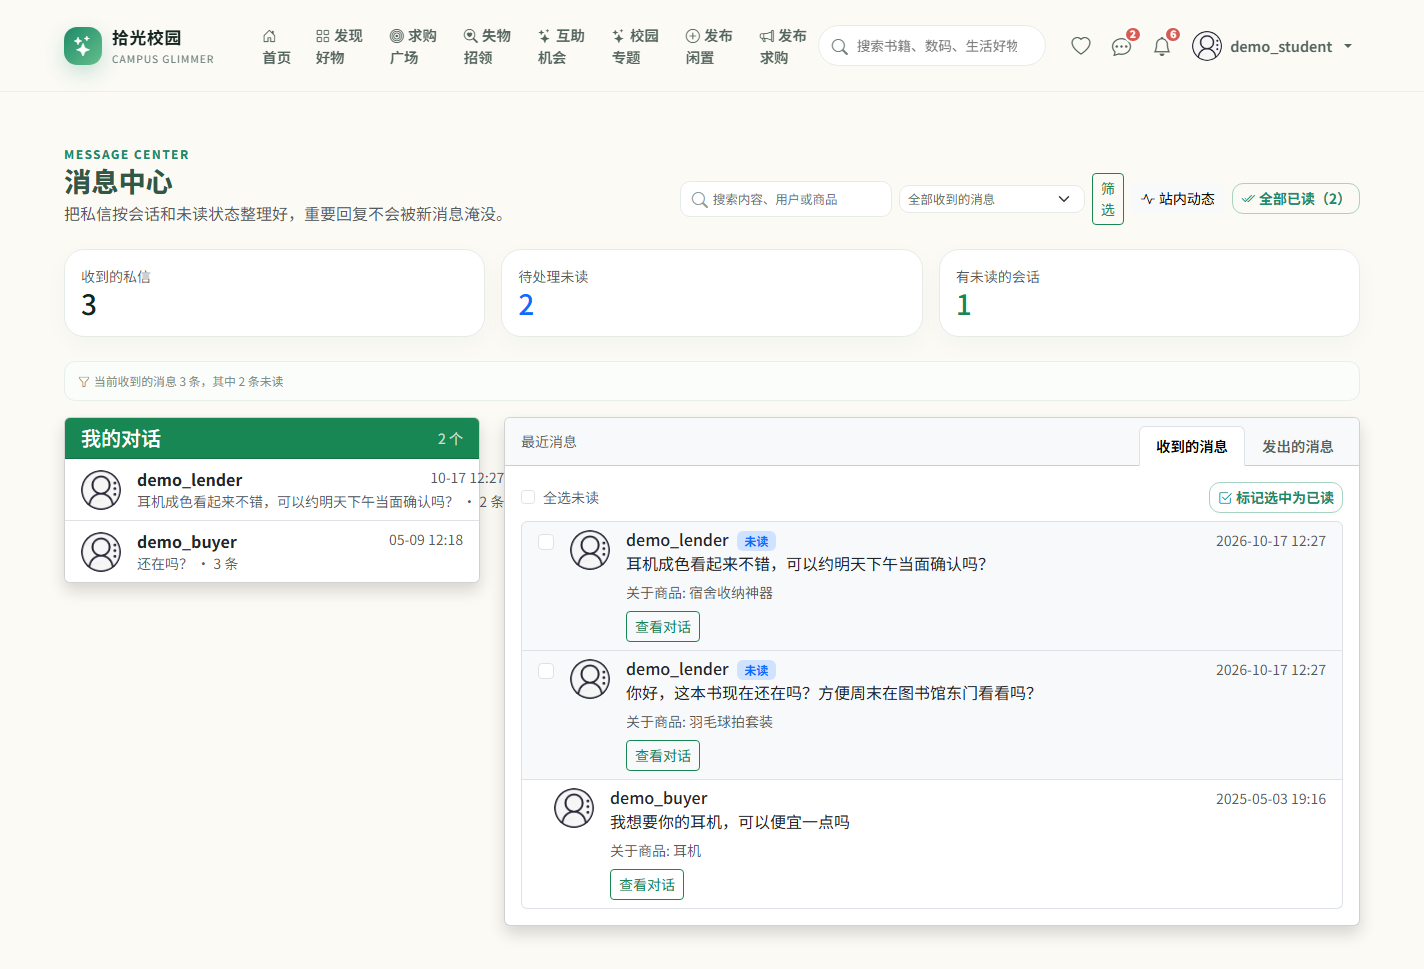
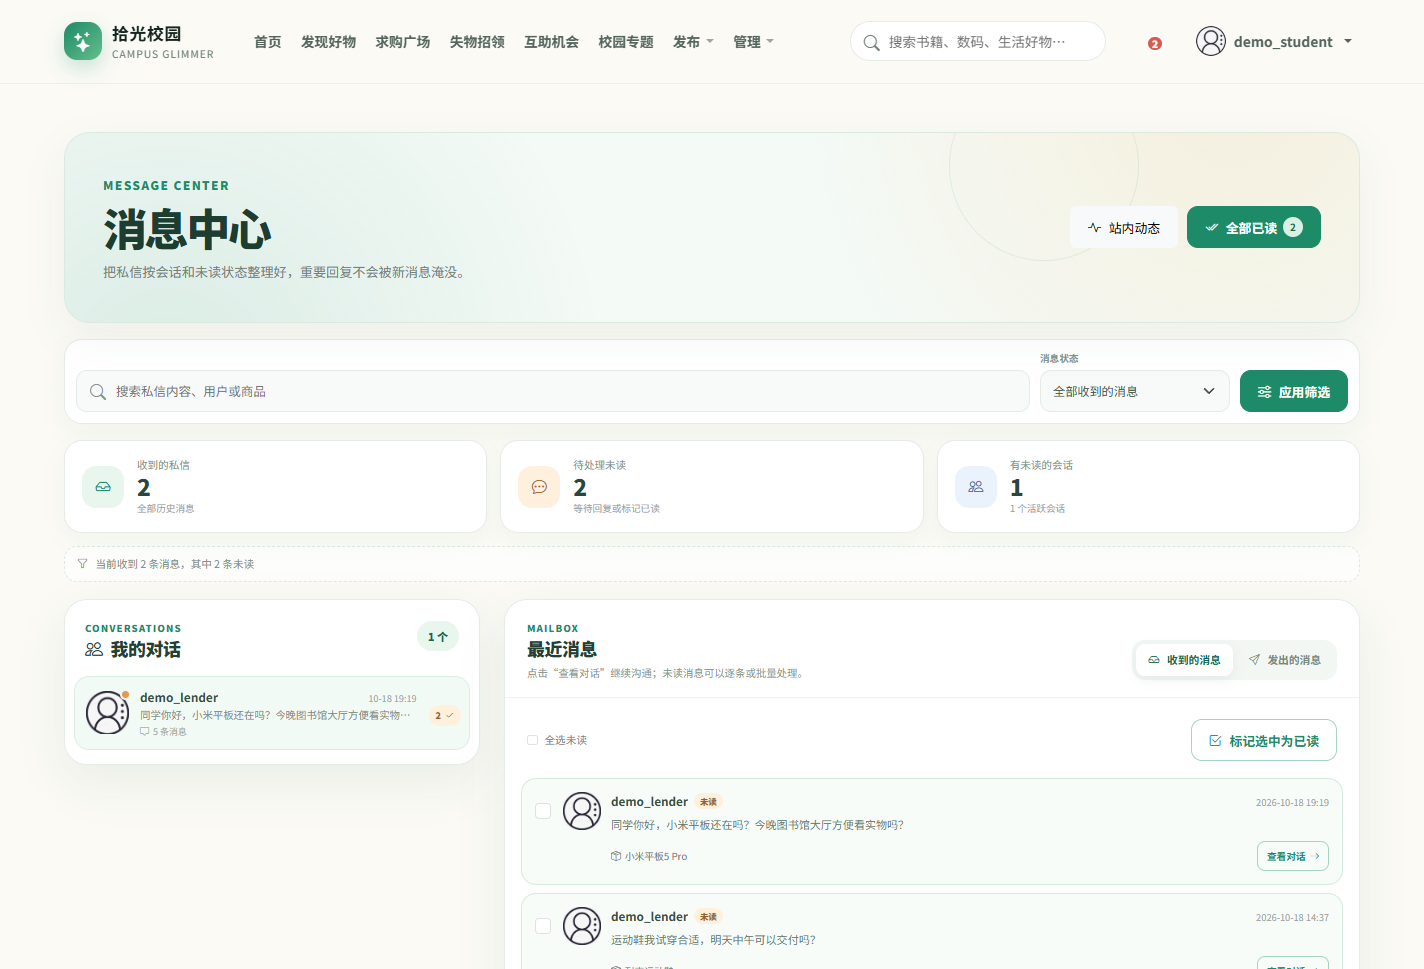
文档：重排 README 首屏并更新产品截图
根 README 首屏改为“主视觉 + 四宫格预览 + 运营看板”的结构，降低首屏阅读成本；
补充 mermaid 业务主线图与架构图入口，功能地图改名为“能力地图”。

各目录 README 同步“账户中心/消息工作台”新命名与截图说明；
替换账户中心与消息工作台两张真实截图（1424×969）。

diff --git a/README.md b/README.md
@@ -1,14 +1,14 @@
 <a id="top"></a>
 <div align="center">
 
-<img src="docs/assets/brand-mark.svg" width="92" alt="拾光校园品牌图标" />
+<img src="docs/assets/brand-mark.svg" width="94" alt="拾光校园品牌图标" />
 
 # 拾光校园 · Campus Glimmer
 
 **让闲置在校园里继续流转，也让每一次相遇都更有回应。**
 
-面向校园的二手交易与社区协作平台。从发现一件好物，到预约、交付、反馈与治理，
-把校园里经常被忽略的细节，接成一条可以回看的交易链路。
+面向校园的二手交易与互助协作平台。围绕发布、发现、沟通、预约、交付、
+评价和治理，把一次校园交易中容易被忽略的细节连接成可回看的完整链路。
 
 [![Django](https://img.shields.io/badge/Django-5.1%2B-1d8a68?style=flat-square&logo=django&logoColor=white)](https://www.djangoproject.com/)
 [![Python](https://img.shields.io/badge/Python-3.11%2B-3776ab?style=flat-square&logo=python&logoColor=white)](https://www.python.org/)
@@ -16,120 +16,102 @@
 [![Docker](https://img.shields.io/badge/Docker-Ready-2496ed?style=flat-square&logo=docker&logoColor=white)](docker-compose.yml)
 [![License](https://img.shields.io/badge/License-MIT-f6aa61?style=flat-square)](LICENSE)
 
-[产品预览](#preview) · [功能地图](#features) · [快速开始](#quick-start) · [工程与测试](#engineering) · [文档地图](#docs) · [完整手册](docs/README.md)
+[产品预览](#preview) · [能力地图](#features) · [快速开始](#quick-start) · [工程与测试](#engineering) · [文档地图](#docs) · [完整手册](docs/README.md)
 
 </div>
-
----
-
-<p align="center">
-  <img src="docs/screenshots/home.png" alt="拾光校园首页，展示校园闲置交易主视觉、导航与在售商品概览" width="100%" />
-</p>
-
-<p align="center"><sub>界面预览 · 本地演示数据</sub></p>
-
-## 🌿 关于项目
-
-校园二手交易和普通电商并不完全相同。用户活动范围集中，交易更依赖当面沟通和时间协调；
-商品生命周期会随开学、考试周和毕业季快速变化；平台除了撮合交易，还要处理通知、举报、
-内容治理和运营复盘。
-
-拾光校园从“发布一件闲置、找到一个买家”出发，持续补齐这些容易被忽略的环节：交易地点、
-预约是否有效、订单进行到哪一步、消息是否被看到、问题由谁处理，以及运营者如何理解站内
-真实需求。
-
-项目按真实业务链路长期迭代。一个功能通常会经过设计说明、数据模型、页面交互、权限边界、
-数据库迁移、后台运营和自动化测试，再进入主分支。README 负责快速了解与进入，完整规则
-维护在 [`docs/`](docs/)。
-
-> **当前状态：** 持续维护中。核心交易、消息通知、社区治理和运营看板已形成闭环；近期迭代
-> 重点放在界面一致性、移动端体验、搜索入口和生产环境可靠性。
-
-<table>
-<tr>
-<td width="50%" valign="top">
-
-<h3>🧭 发现</h3>
-
-按分类、价格、成色和校园地点筛选；收藏、关注搜索、价格轨迹与供需信号帮助用户找到合适的好物。
-
-</td>
-<td width="50%" valign="top">
-
-<h3>🤝 交易</h3>
-
-覆盖出售、免费赠送、限期借用、预约、改期、交付确认、评价、争议和借用归还。
-
-</td>
-</tr>
-<tr>
-<td width="50%" valign="top">
-
-<h3>💬 社区</h3>
-
-留言、私信、站内通知、未读提醒、通知偏好、举报回访与内容申诉连接起每一次互动。
-
-</td>
-<td width="50%" valign="top">
-
-<h3>📊 运营</h3>
-
-从搜索、浏览、收藏、预约和交付中形成可解释指标，支持需求跟进、运营告警和效果复盘。
-
-</td>
-</tr>
-</table>
 
 ---
 
 <a id="preview"></a>
 ## 📸 产品预览
 
-### 发现校园好物
-
 <p align="center">
-  <img src="docs/screenshots/discover.png" alt="商品发现页，包含关键词搜索、分类、校园地点筛选、商品卡片和排序" width="100%" />
+  <a href="docs/screenshots/home.png"><img src="docs/screenshots/home.png" alt="拾光校园首页，展示品牌主视觉、导航与在售商品概览" width="100%" /></a>
 </p>
 
-<p align="center"><sub>关键词、分类、交易地点与商品状态在同一个筛选入口内完成 · 本地演示数据</sub></p>
+<p align="center"><strong>首页 · 从校园场景进入交易与互助</strong><br /><sub>品牌主视觉、全局入口、未读提醒和正在流转的好物 · 本地演示数据</sub></p>
 
 <table>
 <tr>
 <td width="50%" valign="top">
-<img src="docs/screenshots/item-detail.png" alt="商品详情页，展示商品图片、价格、校园地点和价格参考" width="100%" />
-<p align="center"><strong>商品详情</strong><br /><sub>图片、地点、价格参考与交易操作</sub></p>
+<a href="docs/screenshots/discover.png"><img src="docs/screenshots/discover.png" alt="发现页，展示关键词、分类、校园地点、商品状态和排序筛选" width="100%" /></a>
+<p align="center"><strong>发现好物</strong><br /><sub>分类、价格、成色与校园地点组合筛选</sub></p>
 </td>
 <td width="50%" valign="top">
-<img src="docs/screenshots/notifications.png" alt="通知中心，展示未读统计、类型分布、筛选和批量延后操作" width="100%" />
-<p align="center"><strong>通知中心</strong><br /><sub>未读统计、类型分布、筛选与批量处理</sub></p>
+<a href="docs/screenshots/item-detail.png"><img src="docs/screenshots/item-detail.png" alt="商品详情页，展示商品图片、价格、校园地点和价格参考" width="100%" /></a>
+<p align="center"><strong>商品详情</strong><br /><sub>交易信息、地点、价格参考与操作入口</sub></p>
+</td>
+</tr>
+<tr>
+<td width="50%" valign="top">
+<a href="docs/screenshots/inbox.png"><img src="docs/screenshots/inbox.png" alt="消息工作台，展示未读统计、搜索筛选、会话列表和批量已读" width="100%" /></a>
+<p align="center"><strong>消息工作台</strong><br /><sub>会话整理、未读聚焦、收到与发出视图</sub></p>
+</td>
+<td width="50%" valign="top">
+<a href="docs/screenshots/profile.png"><img src="docs/screenshots/profile.png" alt="账户中心，展示校园认证、互助贡献、联系方式和个人活动入口" width="100%" /></a>
+<p align="center"><strong>账户中心</strong><br /><sub>校园身份、可信资料、贡献进度与活动入口</sub></p>
 </td>
 </tr>
 </table>
 
-### 账户与消息
+<p align="center">
+  <a href="docs/screenshots/operations.png"><img src="docs/screenshots/operations.png" alt="运营看板，展示供给、搜索、预约、互助和看板构建观测" width="100%" /></a>
+</p>
+
+<p align="center"><strong>运营看板 · 把校园交易现场变成可解释的运营信号</strong><br /><sub>供给、需求、搜索、交付、互助与告警共用同一套指标口径 · 本地演示数据</sub></p>
+
+<p align="center"><sub>全部截图来自当前本地页面与演示数据；登录、通知、公开档案等更多界面见 <a href="docs/screenshots/README.md">系统界面预览</a></sub></p>
+
+---
+
+## 🧭 这是一个怎样的项目
+
+校园二手交易不是普通电商的缩小版。活动范围集中，交易更依赖当面沟通和时间协调；
+商品生命周期会随开学、考试周和毕业季快速变化；平台除了撮合交易，还要处理通知、
+举报、内容治理和运营复盘。
+
+拾光校园从“发布一件闲置、找到一个买家”出发，持续补齐交易地点、预约是否有效、
+订单进行到哪一步、消息是否被看到、问题由谁处理，以及运营者如何理解站内真实需求。
+项目按真实业务链路长期迭代：一个功能通常会经过场景设计、数据模型、页面交互、权限边界、
+数据库迁移、后台运营和自动化测试，再进入主分支。
+
+> **当前状态：** 持续维护中。核心交易、消息通知、社区治理、专题运营和运营看板已形成闭环；
+> 近期迭代重点放在账户与消息工作台、移动端体验、界面一致性和生产环境可靠性。
 
 <table>
 <tr>
 <td width="50%" valign="top">
-<a href="docs/screenshots/login.png"><img src="docs/screenshots/login.png" alt="登录页，展示品牌介绍、校园身份说明与登录表单" width="100%" /></a>
-<p align="center"><strong>登录与账户入口</strong><br /><sub>品牌信息、登录表单与继续交易的清晰入口</sub></p>
+<h3>🛍 校园交易闭环</h3>
+<p>出售、赠送、借用、求购与失物招领共用一条清晰的发布和发现入口；预约、交付、归还、评价与争议都有对应状态。</p>
 </td>
 <td width="50%" valign="top">
-<img src="docs/screenshots/inbox.png" alt="消息中心，展示私信统计、会话列表和批量已读操作" width="100%" />
-<p align="center"><strong>消息中心</strong><br /><sub>会话列表、未读统计与批量已读</sub></p>
+<h3>🔎 搜索与供需判断</h3>
+<p>组合筛选、关注的搜索、价格轨迹、推荐反馈和供需信号，让“有没有人需要”不再只靠感觉判断。</p>
+</td>
+</tr>
+<tr>
+<td width="50%" valign="top">
+<h3>💬 消息与社区治理</h3>
+<p>留言、私信、通知、未读提醒、通知偏好、举报回访与内容申诉连接起每一次互动，并保留处理边界。</p>
+</td>
+<td width="50%" valign="top">
+<h3>📊 运营与基础设施</h3>
+<p>专题目标、用户漏斗、运营告警、定时任务、PostgreSQL、Redis、对象存储与备份恢复共同支撑长期运行。</p>
 </td>
 </tr>
 </table>
 
-### 运营看板
+### 一条交易如何走完
 
 <p align="center">
-  <img src="docs/screenshots/operations.png" alt="运营数据概览，展示供给、搜索、预约、互助和看板构建耗时" width="100%" />
+  <strong>发布</strong> → <strong>发现</strong> → <strong>沟通</strong> → <strong>预约</strong> → <strong>交付</strong> → <strong>评价</strong> → <strong>治理</strong>
 </p>
 
-<p align="center"><sub>管理员视角下的供给、搜索、预约、互助和看板构建观测 · 本地演示数据</sub></p>
+出售、免费赠送和限期借用会在预约之后进入不同状态分支；求购匹配和失物招领是两条并行支线。
+完整流程图见[校园交易闭环](docs/business-flow.svg)，规则与边缘情况见[功能手册](docs/feature-handbook.md)。
 
-<p align="center"><sub>全部截图均来自当前本地页面与演示数据；个人资料、公开交易档案等更多页面见 <a href="docs/screenshots/README.md">系统界面预览</a></sub></p>
+> **运营纪律：** 看板与治理工作台只读消费业务事实，不自动修改交易状态。
+> 指标会明确样本、分母、周期和缺失值，避免用不可解释的数字替代判断。
 
 ---
 
@@ -151,17 +133,20 @@
 | 🎓 **校园身份与可信交易** | 校园邮箱认证、公开档案、安全提示与确认记录 |
 | 🎪 **校园专题与个人足迹** | 专题浏览、加入与退出、参与区间、目标进度、严格用户漏斗和运营导出 |
 
-### 一条交易链路
+### 业务主线与旁路
 
-<p align="center">
-  <strong>发现</strong> → <strong>筛选</strong> → <strong>了解</strong> → <strong>沟通</strong> → <strong>预约</strong> → <strong>交付</strong> → <strong>反馈</strong> → <strong>治理</strong>
-</p>
+```mermaid
+flowchart LR
+    Browse["发现 / 搜索"] --> Talk["沟通与预约"]
+    Talk --> Deal["交付 / 归还"]
+    Deal --> Trust["评价与可信记录"]
+    Govern["治理与申诉"] -. 留痕 .-> Talk
+    Ops["运营看板"] -. 只读观测 .-> Browse
+    Ops -. 只读观测 .-> Deal
+```
 
-出售、免费赠送和限期借用会在预约之后进入不同状态分支；求购匹配和失物招领是两条并行支线。
+出售、免费赠送和限期借用会在预约后进入不同状态分支；求购匹配与失物招领是两条并行支线。
 完整流程图见[校园交易闭环](docs/business-flow.svg)，业务规则见[功能手册](docs/feature-handbook.md)。
-
-> **运营纪律：**看板与治理工作台只读消费业务事实，不自动修改交易状态。
-> 指标会明确样本、分母、周期和缺失值，避免用不可解释的数字替代判断。
 
 ---
 
@@ -188,6 +173,12 @@ templates/        页面模板
 static/           CSS、JavaScript 与静态资源
 docs/             功能、设计、架构和运营文档
 ```
+
+<p align="center">
+  <a href="docs/architecture.svg"><img src="docs/architecture.svg" alt="拾光校园系统架构，展示 Django 应用、业务模块、数据存储、通知中心和运营看板之间的关系" width="100%" /></a>
+</p>
+
+<p align="center"><sub>应用边界、共享数据事实与运营读取路径 · 点击查看架构图原图</sub></p>
 
 模块、测试和设计文档索引见[模块与测试地图](docs/module-map.md)。
 

diff --git a/docs/screenshots/README.md b/docs/screenshots/README.md
@@ -44,8 +44,8 @@
 </tr>
 <tr>
 <td width="50%" valign="top">
-<a href="profile.png"><img src="profile.png" alt="个人资料页，展示账户信息、校园身份、互助贡献和我的活动" width="100%" /></a>
-<p align="center"><strong>个人资料</strong><br /><sub>账户信息、校园身份、贡献与活动入口</sub></p>
+<a href="profile.png"><img src="profile.png" alt="账户中心，展示校园认证、互助贡献、联系方式和最近活动" width="100%" /></a>
+<p align="center"><strong>账户中心</strong><br /><sub>校园认证、可信资料、贡献进度与活动入口</sub></p>
 </td>
 <td width="50%" valign="top">
 <a href="public-profile.png"><img src="public-profile.png" alt="公开交易档案，展示公开资料、交易表现和校园互助反馈" width="100%" /></a>
@@ -54,8 +54,8 @@
 </tr>
 <tr>
 <td width="50%" valign="top">
-<a href="inbox.png"><img src="inbox.png" alt="消息中心，展示私信统计、会话列表、未读消息和批量已读" width="100%" /></a>
-<p align="center"><strong>消息中心</strong><br /><sub>会话列表、未读统计和批量已读</sub></p>
+<a href="inbox.png"><img src="inbox.png" alt="消息工作台，展示未读统计、搜索筛选、会话列表和批量已读" width="100%" /></a>
+<p align="center"><strong>消息工作台</strong><br /><sub>会话整理、未读聚焦、收到与发出视图</sub></p>
 </td>
 <td width="50%" valign="top">
 <a href="operations.png"><img src="operations.png" alt="运营数据概览，展示供给、搜索、预约、互助和看板构建耗时" width="100%" /></a>
@@ -75,9 +75,9 @@
 | [`login.png`](login.png) | `1424 × 969` | 登录页；品牌信息、认证表单与全局导航 |
 | [`item-detail.png`](item-detail.png) | `1424 × 969` | 详情页；图片、状态、价格、地点和价格参考 |
 | [`notifications.png`](notifications.png) | `1424 × 969` | 通知中心；未读统计、类型分布和批量操作 |
-| [`profile.png`](profile.png) | `1424 × 969` | 个人资料；账户、校园身份、贡献和活动入口 |
+| [`profile.png`](profile.png) | `1424 × 969` | 账户中心；校园认证、贡献、联系方式与活动入口 |
 | [`public-profile.png`](public-profile.png) | `1424 × 969` | 公开档案；公开信誉、互助反馈和在售摘要 |
-| [`inbox.png`](inbox.png) | `1424 × 969` | 消息中心；会话、未读筛选和批量已读 |
+| [`inbox.png`](inbox.png) | `1424 × 969` | 消息工作台；未读统计、搜索筛选、会话与批量已读 |
 | [`operations.png`](operations.png) | `1424 × 969` | 运营看板；管理员指标、告警和构建耗时 |
 
 ## 🔄 更新截图时

diff --git a/accounts/README.md b/accounts/README.md
@@ -13,13 +13,13 @@
 > [!NOTE]
 > 这个应用只管账户、公开资料和校园邮箱认证。商品、订单、通知和审核分别由 `listings/` 与 `chat_messages/` 负责，不在这里重复实现。
 
-## 📸 账户页面
+## 📸 账户中心与公开档案
 
 <table>
 <tr>
 <td width="50%" valign="top">
-<a href="../docs/screenshots/profile.png"><img src="../docs/screenshots/profile.png" alt="个人资料页，展示头像、简介、校园身份、互助贡献和我的活动" width="100%" /></a>
-<p align="center"><strong>个人资料</strong><br /><sub>账户信息、校园身份、贡献进度与活动入口</sub></p>
+<a href="../docs/screenshots/profile.png"><img src="../docs/screenshots/profile.png" alt="账户中心，展示头像、简介、校园认证、互助贡献、联系方式和最近活动" width="100%" /></a>
+<p align="center"><strong>账户中心</strong><br /><sub>校园认证、可信资料、贡献进度与活动入口</sub></p>
 </td>
 <td width="50%" valign="top">
 <a href="../docs/screenshots/public-profile.png"><img src="../docs/screenshots/public-profile.png" alt="公开交易档案，展示公开资料、交易表现和校园互助反馈" width="100%" /></a>
@@ -88,7 +88,7 @@ sequenceDiagram
 | --- | --- | --- |
 | `/accounts/register/` | 创建账户 | 否 |
 | `/accounts/login/` | 登录 | 否 |
-| `/accounts/profile/` | 自己的资料与贡献摘要 | 是 |
+| `/accounts/profile/` | 账户中心、校园身份与贡献摘要 | 是 |
 | `/accounts/profile/edit/` | 修改用户名、邮箱、头像和资料 | 是 |
 | `/accounts/user/<user_id>/` | 其他用户的公开交易档案 | 否 |
 | `/accounts/profile/campus-verification/` | 发起或重新发送校园认证 | 是 |

diff --git a/static/README.md b/static/README.md
@@ -53,7 +53,7 @@ flowchart LR
 
 | 路径 | 作用 |
 | --- | --- |
-| [`css/style.css`](css/style.css) | 全站主题、布局、组件、运营页和响应式样式 |
+| [`css/style.css`](css/style.css) | 全站主题、布局、账户中心、消息工作台、运营页和响应式样式 |
 | [`js/main.js`](js/main.js) | 搜索建议、未读角标轮询和轻量页面增强 |
 | [`img/default-avatar.png`](img/default-avatar.png) | 默认头像 |
 | [`img/no-image.png`](img/no-image.png) | 商品缺图占位 |
@@ -63,11 +63,12 @@ flowchart LR
 ## 🛠 修改检查
 
 - 颜色、阴影和圆角优先复用现有主题值；
-- 桌面和移动端断点都要检查，不能只在一个宽度下截图；
+- 桌面、平板和移动端断点都要检查；关键页面至少覆盖 `1424px`、`1024px` 和 `390px`；
 - 运营页面和用户页面保持可区分的视觉层级，但不要分裂成两套设计语言；
 - 图片资源优先 WebP / 压缩后的 PNG，商品上传图由 `listings/image_processing.py` 处理；
 - 大段样式要带用途说明，避免无法判断归属的规则继续堆积；
-- 修改未读数轮询时，确认隐藏标签页不会持续请求，且 99+ 显示仍然正确。
+- 修改未读数轮询时，确认隐藏标签页不会持续请求，且 99+ 显示仍然正确；
+- 交互元素要保留清晰的 `:focus-visible` 状态，并检查键盘操作顺序。
 
 ## ✅ 验证
 

diff --git a/chat_messages/README.md b/chat_messages/README.md
@@ -16,10 +16,10 @@
 ## 📸 相关页面
 
 <p align="center">
-  <a href="../docs/screenshots/inbox.png"><img src="../docs/screenshots/inbox.png" alt="消息中心，展示私信统计、会话列表、未读消息和批量已读操作" width="100%" /></a>
+  <a href="../docs/screenshots/inbox.png"><img src="../docs/screenshots/inbox.png" alt="消息工作台，展示未读统计、搜索筛选、会话列表、收到与发出视图和批量已读操作" width="100%" /></a>
 </p>
 
-<p align="center"><strong>消息中心</strong><br /><sub>按会话整理私信，区分收到与发出的消息，并支持筛选和批量已读 · 本地演示数据</sub></p>
+<p align="center"><strong>消息工作台</strong><br /><sub>按会话整理私信，区分收到与发出视图，并支持状态筛选、未读聚焦和批量已读 · 本地演示数据</sub></p>
 
 <table>
 <tr>
@@ -83,7 +83,7 @@ flowchart LR
 | 路径 | 用途 |
 | --- | --- |
 | `/messages/comment/<item_id>/` | 在商品下新增留言 |
-| `/messages/inbox/` | 收件箱、会话列表和未读筛选 |
+| `/messages/inbox/` | 消息工作台、会话列表和未读筛选 |
 | `/messages/conversation/<user_id>/` | 与指定用户查看会话并继续发送 |
 | `/messages/send/<receiver_id>/<item_id>/` | 围绕商品发起私信 |
 | `/messages/inbox/read-selected/` | 批量标记当前用户的接收记录 |

diff --git a/templates/README.md b/templates/README.md
@@ -36,8 +36,8 @@ flowchart TD
 | 目录或文件 | 内容 |
 | --- | --- |
 | [`base.html`](base.html) | 全站导航、品牌、消息提示、未读角标、页脚和公共脚本 |
-| [`accounts/`](accounts/) | 注册、登录、资料、公开主页和校园认证 |
-| [`chat_messages/`](chat_messages/) | 收件箱、会话、审核队列和申诉页面 |
+| [`accounts/`](accounts/) | 账户中心、登录、资料编辑、公开主页和校园认证 |
+| [`chat_messages/`](chat_messages/) | 消息工作台、会话、审核队列和申诉页面 |
 | [`listings/`](listings/) | 首页、商品、搜索、订单、通知、运营看板和治理页面 |
 | [`listings/_item_card.html`](listings/_item_card.html) | 商品卡片复用片段 |
 
